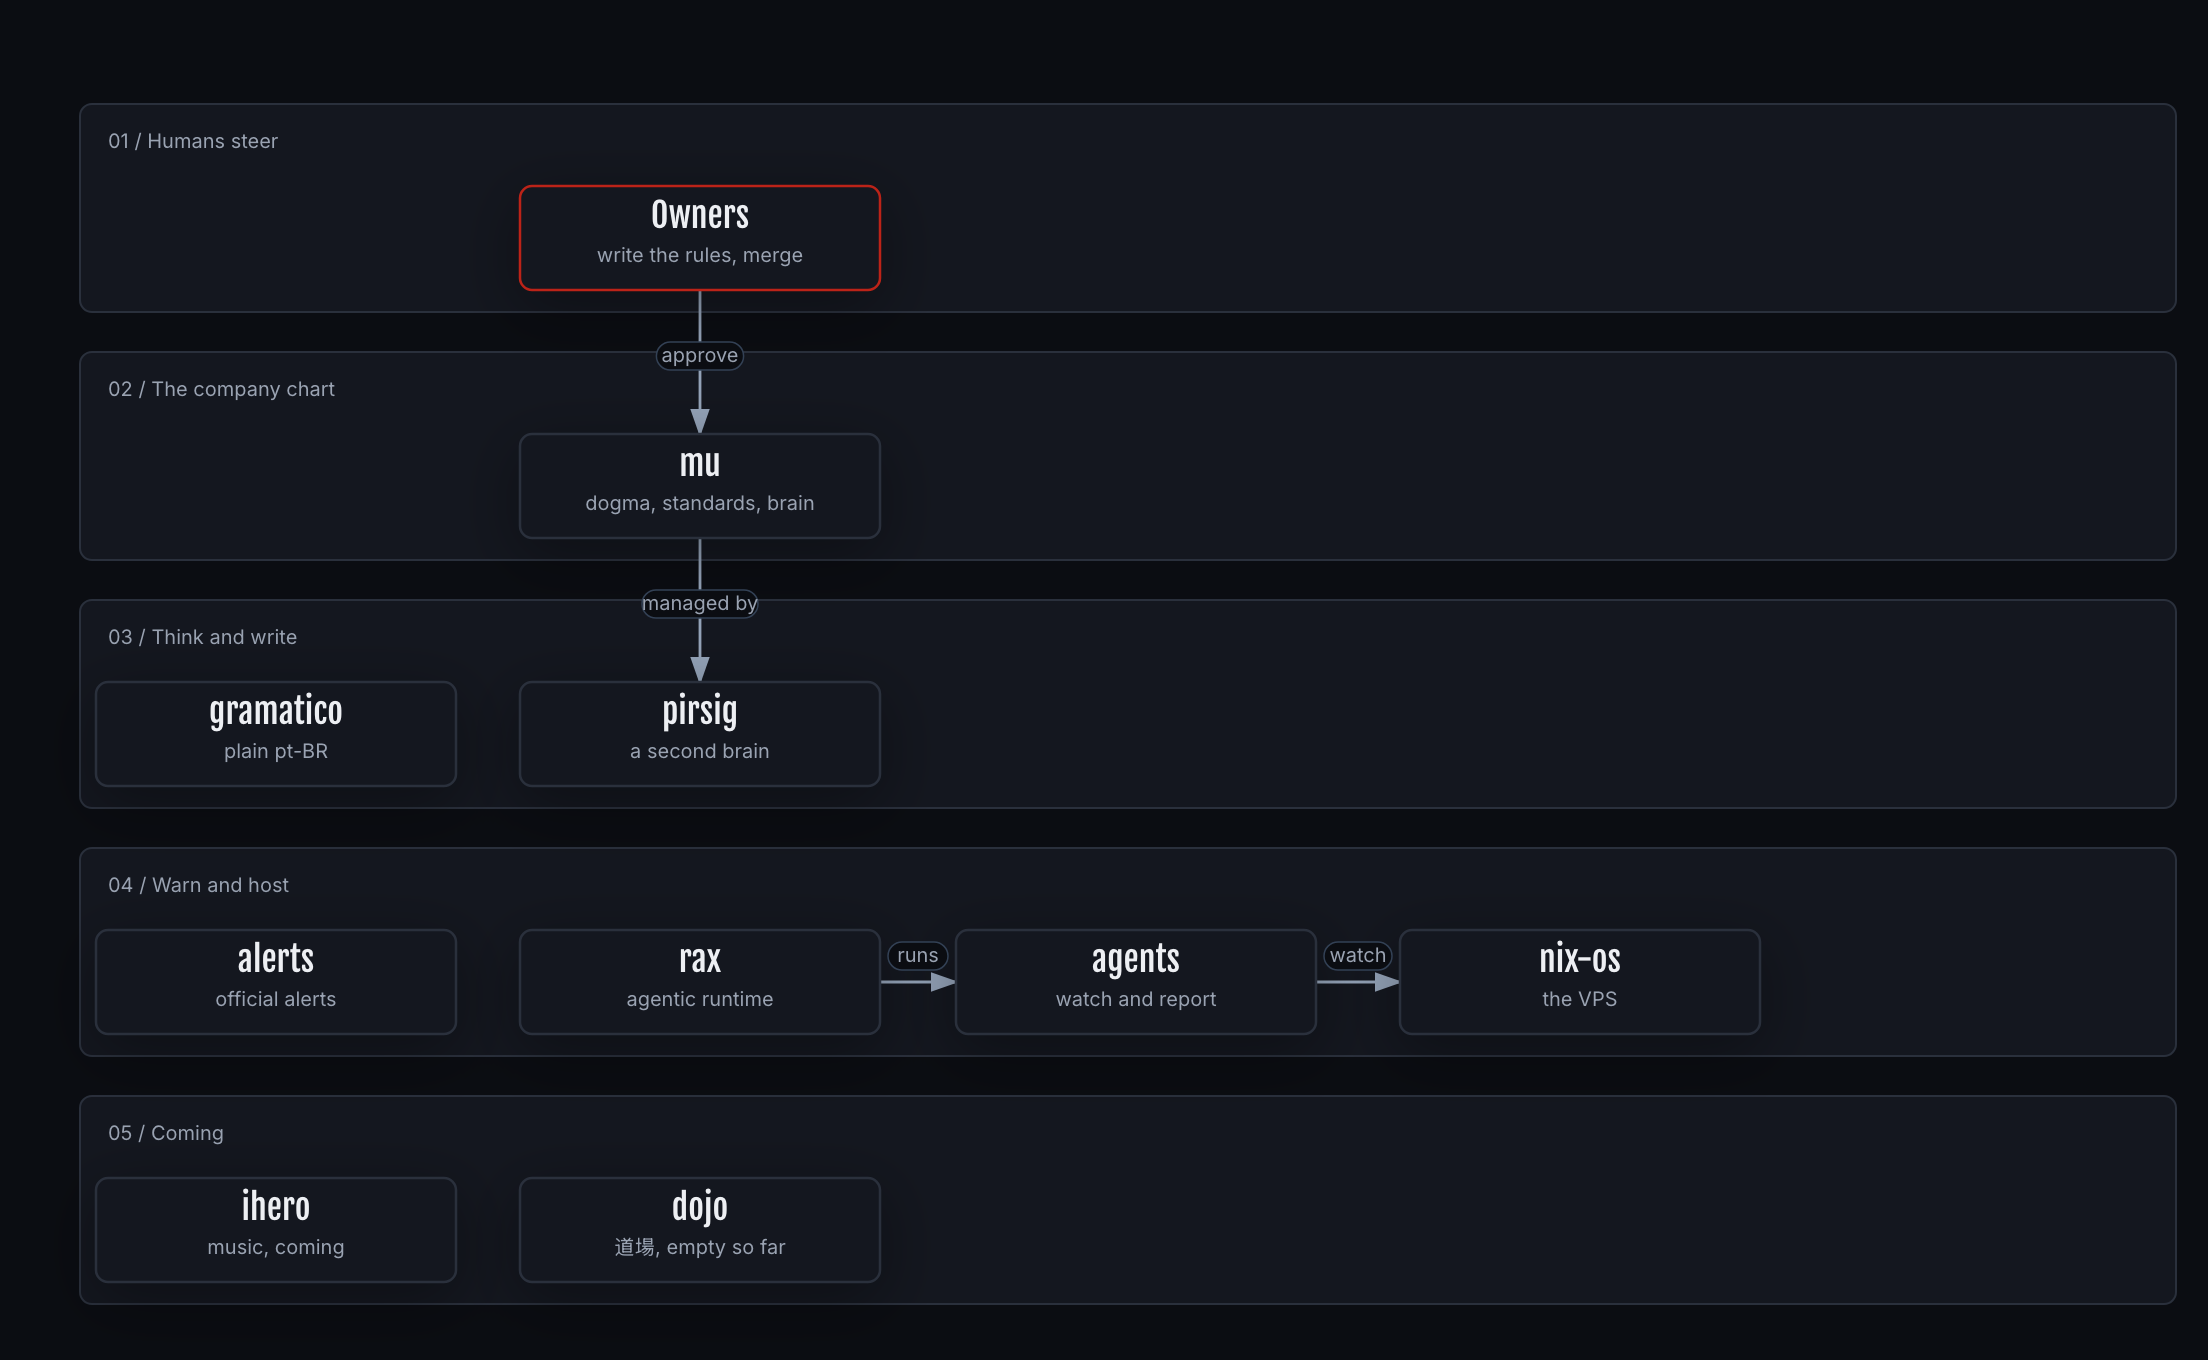
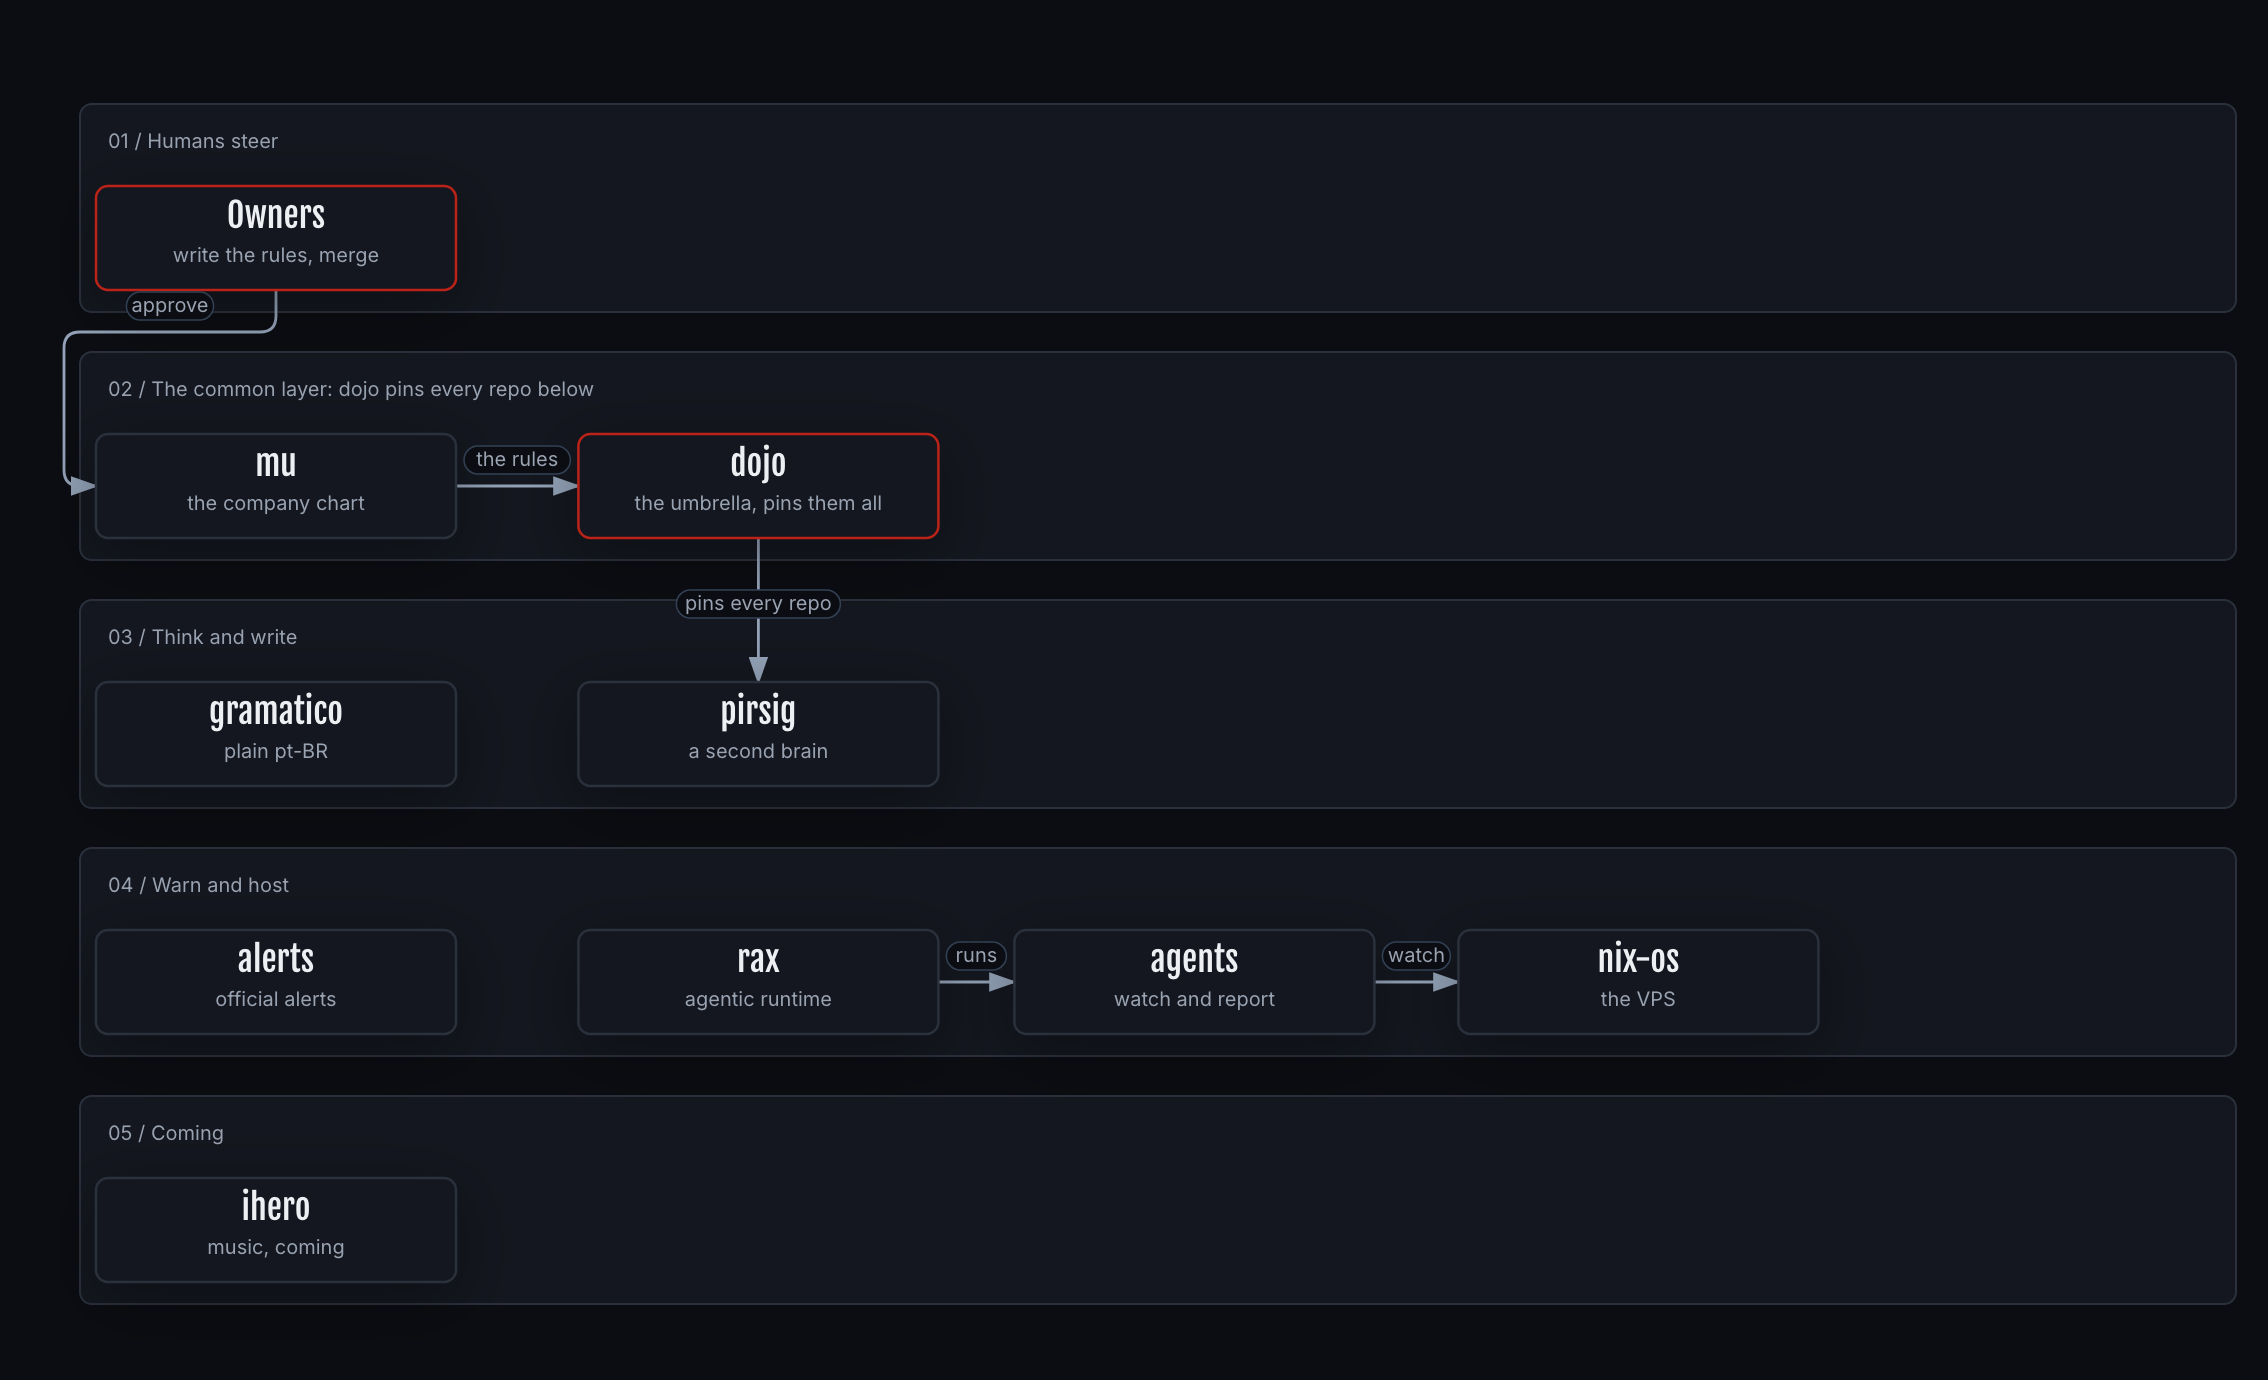
Show dojo as the common layer in the map
mu gives its rules to dojo, and dojo pins every repository. The docs say the same.

diff --git a/README.md b/README.md
@@ -27,15 +27,17 @@ The two repos share history up to that commit. mu does not follow upstream.
   in short pull requests. Judgement is decision-oriented: evidence, a decision model, calibrated
   probabilities, rules that humans define, a verdict.
 - **[PIABROTA.md](PIABROTA.md) indexes every public repo of the org.**
+- **[dojo](https://github.com/piabrota/dojo) is the common layer of every repository.** It is the umbrella:
+  it pins each repo, this one included, and mu gives it the rules.
 - **[pirsig](https://github.com/piabrota/pirsig) will manage this repo:** smart notes, PARA and a
   track record of high-level decisions. [`brain/`](brain/) is its fork state.
 - **mu began as a copy of Ouroboric's company repo.** [NOTICE.md](NOTICE.md) keeps that credit.
 
 ## The map
 
-![piabrota map: owners write the rules and approve direction in mu, the company chart, which pirsig manages; the products are gramatico and pirsig (think and write), alerts, rax, agents and nix-os (warn and host), ihero and dojo](docs/img/piabrota-map.png)
+![piabrota map: owners approve direction in mu, the company chart; mu gives its rules to dojo, the umbrella and the common layer, which pins every repository: gramatico and pirsig (think and write), alerts, rax, agents and nix-os (warn and host), and ihero](docs/img/piabrota-map.png)
 
-**How to read this figure.** Top to bottom, one lane per kind of work. A red border marks the people who steer. The source is [`piabrota-map.json`](docs/archify/piabrota-map.json).
+**How to read this figure.** Top to bottom. The second lane is the common layer, and the lanes below it are kinds of work. A red border marks the people who steer and dojo. The source is [`piabrota-map.json`](docs/archify/piabrota-map.json).
 
 ## Contents
 

diff --git a/docs/1-company/charter.md b/docs/1-company/charter.md
@@ -49,12 +49,13 @@ handover, `docs/` stays the source of truth.
 
 ## Portfolio
 
+[dojo](https://github.com/piabrota/dojo) is the common layer: it pins every repository, and it inherits the rules from mu.
 The products are pirsig, alerts, ihero, gramatico, nix-os, dojo, rax and agents, each a submodule under
 [`products/`](../../products/). [PIABROTA.md](../../PIABROTA.md) lists every public repo.
 
-![piabrota map: owners write the rules and approve direction in mu, the company chart, which pirsig manages; the products are gramatico and pirsig (think and write), alerts, rax, agents and nix-os (warn and host), ihero and dojo](../img/piabrota-map.png)
+![piabrota map: owners approve direction in mu, the company chart; mu gives its rules to dojo, the umbrella and the common layer, which pins every repository: gramatico and pirsig (think and write), alerts, rax, agents and nix-os (warn and host), and ihero](../img/piabrota-map.png)
 
-**How to read this figure.** Top to bottom, one lane per kind of work. A red border marks the people who steer. The source is [`piabrota-map.json`](../archify/piabrota-map.json).
+**How to read this figure.** Top to bottom. The second lane is the common layer, and the lanes below it are kinds of work. A red border marks the people who steer and dojo. The source is [`piabrota-map.json`](../archify/piabrota-map.json).
 
 ## North-star measures
 

diff --git a/docs/README.md b/docs/README.md
@@ -5,9 +5,9 @@ chart. Read the [dogma](../DOGMA.md) first, then the [charter](1-company/charter
 
 ## The map
 
-![piabrota map: owners write the rules and approve direction in mu, the company chart, which pirsig manages; the products are gramatico and pirsig (think and write), alerts, rax, agents and nix-os (warn and host), ihero and dojo](img/piabrota-map.png)
+![piabrota map: owners approve direction in mu, the company chart; mu gives its rules to dojo, the umbrella and the common layer, which pins every repository: gramatico and pirsig (think and write), alerts, rax, agents and nix-os (warn and host), and ihero](img/piabrota-map.png)
 
-**How to read this figure.** Top to bottom, one lane per kind of work. A red border marks the people who steer. The source is [`piabrota-map.json`](./archify/piabrota-map.json).
+**How to read this figure.** Top to bottom. The second lane is the common layer, and the lanes below it are kinds of work. A red border marks the people who steer and dojo. The source is [`piabrota-map.json`](./archify/piabrota-map.json).
 
 ## Contents
 

diff --git a/docs/1-company/repos.md b/docs/1-company/repos.md
@@ -16,6 +16,7 @@ organisation. This page says how this repo's tree relates to them.
 | Repository | Kind | Role |
 | --- | --- | --- |
 | [`mu`](https://github.com/piabrota/mu) | company chart | this repo: dogma, charter, standards, journal, brand |
+| [`dojo`](https://github.com/piabrota/dojo) | umbrella | the common layer: it pins every repository as a submodule, and inherits the rules from mu |
 | `pirsig`, `alerts`, `ihero`, `gramatico`, `nix-os`, `dojo`, `rax`, `agents` | products | submodules under [`products/`](../../products/) |
 
 ## The factory

diff --git a/AGENTS.md b/AGENTS.md
@@ -2,6 +2,7 @@
 
 piabrota is the company, an open software fabric made in Rio de Janeiro. This repo, `mu`, is its company
 chart: it holds the company docs, the standards every product inherits, the eight products as submodules under `products/`, and the forks it pins under `forks/`: archify and graphify.
+[dojo](https://github.com/piabrota/dojo) is the umbrella, the common layer of every repository.
 Read [`DOGMA.md`](DOGMA.md) first: it wins over this file. [`PIABROTA.md`](PIABROTA.md) indexes the org's
 repos. Start with `docs/README.md`.
 
